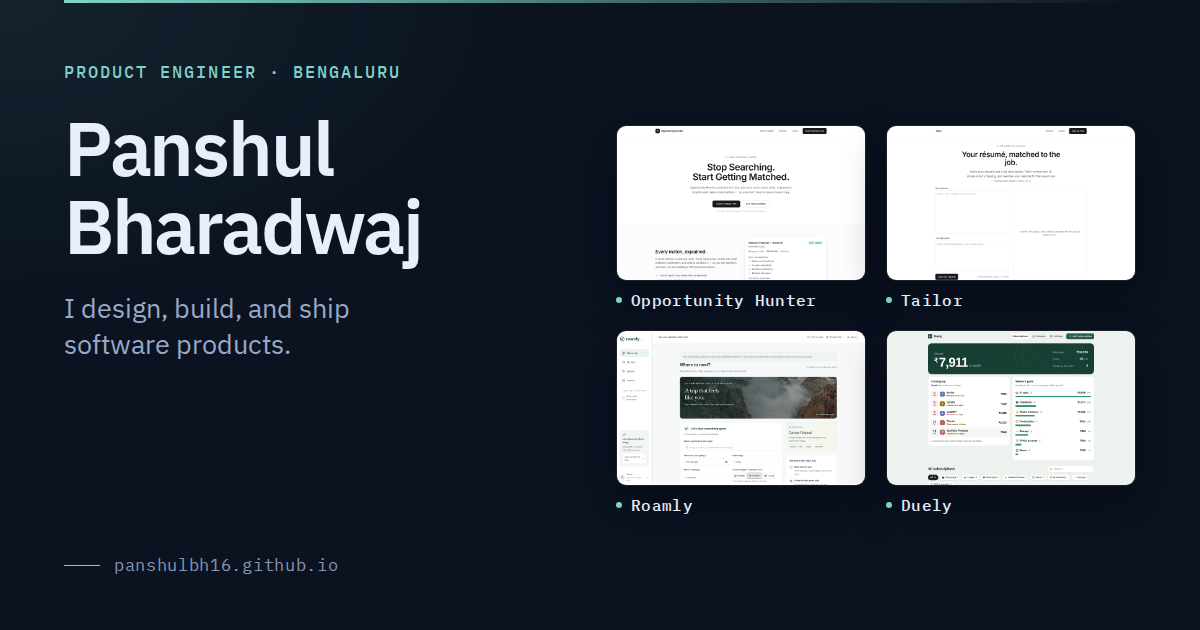
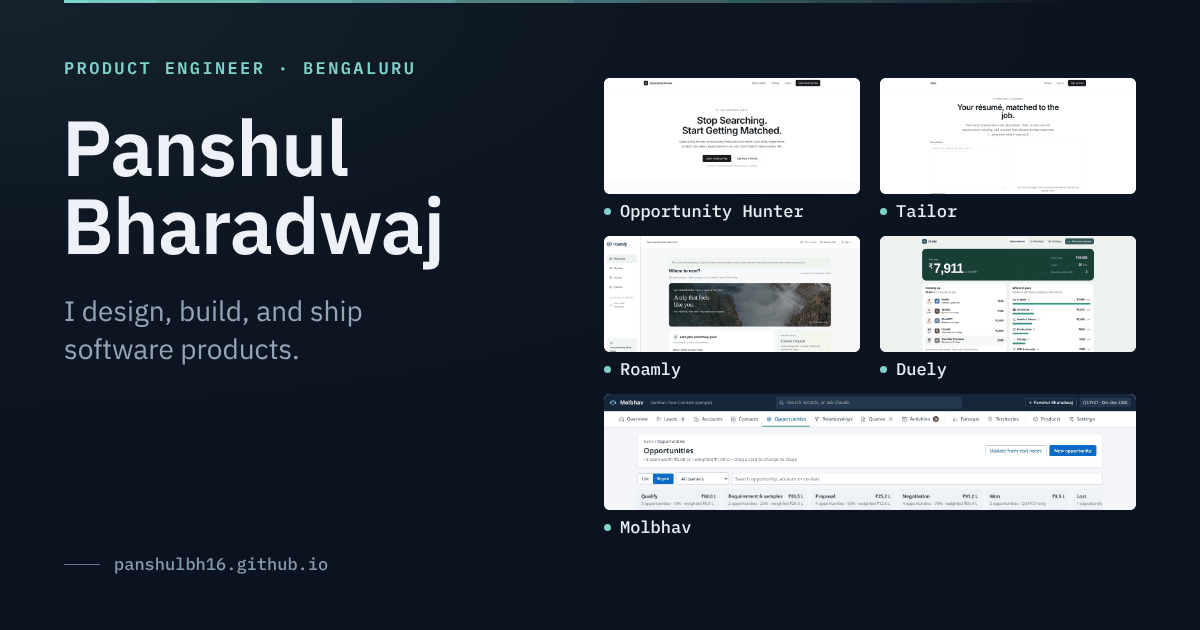
Show all five products in the share image
Claude-Session: https://claude.ai/code/session_017b2JMNZCJ9MGgTNePvmNYL

diff --git a/index.html b/index.html
@@ -17,12 +17,12 @@
   <meta property="og:image:type" content="image/png">
   <meta property="og:image:width" content="1200">
   <meta property="og:image:height" content="630">
-  <meta property="og:image:alt" content="Panshul Bharadwaj, product engineer in Bengaluru, beside screenshots of Opportunity Hunter, Tailor, Roamly and Duely">
+  <meta property="og:image:alt" content="Panshul Bharadwaj, product engineer in Bengaluru, beside screenshots of Opportunity Hunter, Tailor, Roamly, Duely and Molbhav">
   <meta name="twitter:card" content="summary_large_image">
   <meta name="twitter:title" content="Panshul Bharadwaj — Product engineer">
   <meta name="twitter:description" content="Five products: Opportunity Hunter (job matching), Tailor (résumés), Roamly (trip planning), Duely (subscriptions) and Molbhav (sales CRM for manufacturers, live demo).">
   <meta name="twitter:image" content="https://panshulbh16.github.io/assets/img/og.png">
-  <meta name="twitter:image:alt" content="Panshul Bharadwaj, product engineer in Bengaluru, beside screenshots of Opportunity Hunter, Tailor, Roamly and Duely">
+  <meta name="twitter:image:alt" content="Panshul Bharadwaj, product engineer in Bengaluru, beside screenshots of Opportunity Hunter, Tailor, Roamly, Duely and Molbhav">
   <meta name="theme-color" content="#0e1014">
   <script type="application/ld+json">
   {
